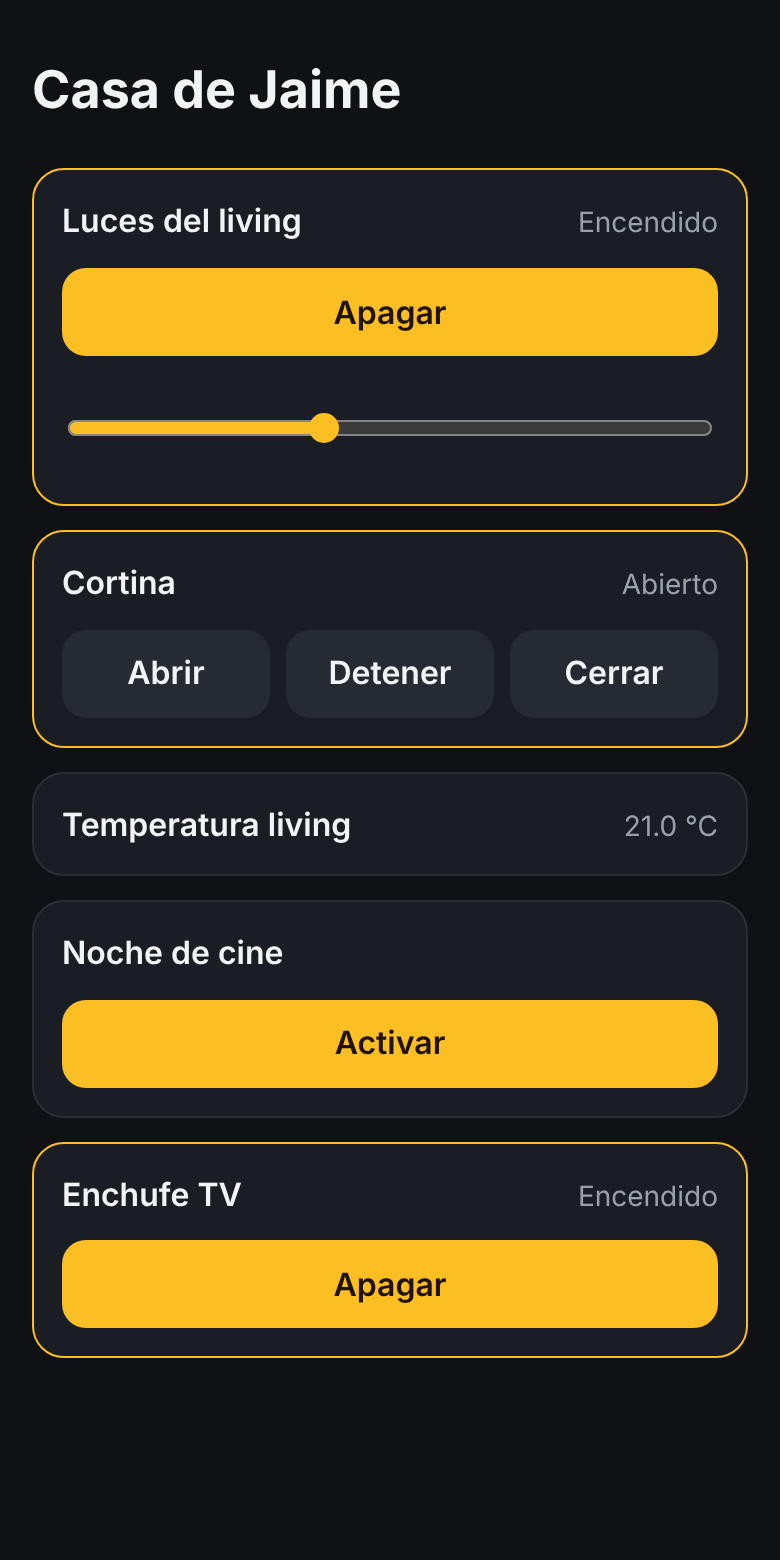
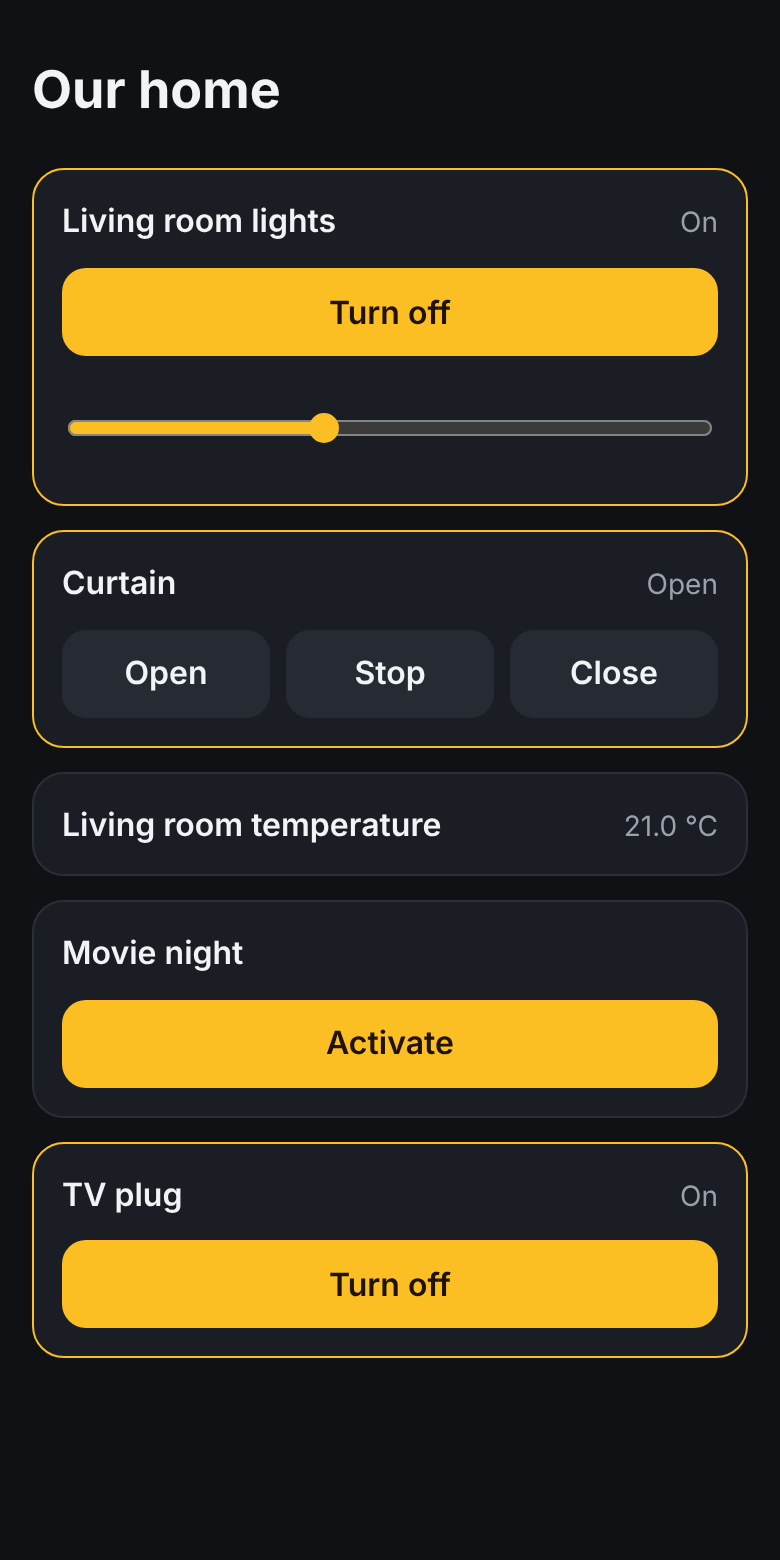
Make English the default language
English README with the Spanish one kept as README.es.md, English default
panel title and fallback language, and an English screenshot.

Claude-Session: https://claude.ai/code/session_01P8vX2JRArySRhBeMx9U1Mu

diff --git a/custom_components/ha_guest/frontend/guest.html b/custom_components/ha_guest/frontend/guest.html
@@ -1,12 +1,12 @@
 <!doctype html>
-<html lang="es">
+<html lang="en">
 <head>
 <meta charset="utf-8">
 <meta name="viewport" content="width=device-width, initial-scale=1, viewport-fit=cover">
 <meta name="robots" content="noindex">
 <meta name="apple-mobile-web-app-capable" content="yes">
 <meta name="mobile-web-app-capable" content="yes">
-<title>Invitados</title>
+<title>Guests</title>
 <style>
   :root {
     --bg: #f3f4f6; --card: #ffffff; --text: #16181d; --muted: #6b7280; --line: #e5e7eb;
@@ -59,7 +59,7 @@
 <div id="toast" role="alert"></div>
 <script>
 (() => {
-  const ES = (navigator.language || "es").toLowerCase().startsWith("es");
+  const ES = (navigator.language || "en").toLowerCase().startsWith("es");
   const T = ES ? {
     on: "Encendido", off: "Apagado", turn_on: "Encender", turn_off: "Apagar", open: "Abrir", close: "Cerrar",
     stop: "Detener", activate: "Activar", lock: "Cerrar", unlock: "Abrir", locked: "Cerrado", unlocked: "Abierto",

diff --git a/custom_components/ha_guest/const.py b/custom_components/ha_guest/const.py
@@ -20,7 +20,7 @@ CONF_CONDITION_ENTITY = "condition_entity"
 CONF_CONDITION_STATES = "condition_states"
 CONF_AWAY_READ = "away_read"
 
-DEFAULT_TITLE = "Invitados"
+DEFAULT_TITLE = "Guests"
 
 PANEL_URL = "/guest"
 API_STATES_URL = "/api/ha_guest/states"

diff --git a/README.md b/README.md
@@ -1,78 +1,80 @@
 # HA Guest
 
-Integración para Home Assistant que deja a tus invitados manejar **solo las entidades que tú elijas** y **solo
-mientras están conectados a tu red**.
+🇪🇸 [Leer en español](README.es.md)
 
-Cubre dos tipos de invitado:
+A Home Assistant integration that lets your guests control **only the entities you choose**, and **only while
+they are connected to your network**.
 
-| | Quién | Cómo entra | Qué puede hacer |
+It covers two kinds of guest:
+
+| | Who | How they get in | What they can do |
 |---|---|---|---|
-| **Panel de invitados** | Un amigo que va a tu casa | Abre `http://<tu-home-assistant>:8123/guest` en el navegador. Sin app y sin usuario | Maneja las entidades del panel, solo desde tu red |
-| **Usuario restringido** | Alguien con la app de Home Assistant (p. ej. tu suegra, para compartir ubicación) | Con su usuario, en la app o el navegador | Siempre: lo que le permitas (p. ej. Family Location). Luces y demás: solo cuando su teléfono está en tu WiFi |
+| **Guest panel** | A friend visiting your home | Opens `http://<your-home-assistant>:8123/guest` in the browser. No app, no user | Controls the panel's entities, only from your network |
+| **Restricted user** | Someone with the Home Assistant app (e.g. a relative who shares their location) | With their own user, in the app or the browser | Always: whatever you allow (e.g. Family Location). Lights and the rest: only while their phone is on your Wi-Fi |
 
-<img src="docs/guest-panel.png" alt="Panel de invitados" width="320">
+<img src="docs/guest-panel.png" alt="Guest panel" width="320">
 
-## Instalación
+## Installation
 
-1. HACS → menú ⋮ → *Repositorios personalizados* → agrega este repositorio como **Integración**.
-2. Instala **HA Guest** y reinicia Home Assistant.
-3. *Ajustes → Dispositivos y servicios → Añadir integración → HA Guest.*
+1. HACS → ⋮ menu → *Custom repositories* → add this repository as an **Integration**.
+2. Install **HA Guest** and restart Home Assistant.
+3. *Settings → Devices & services → Add integration → HA Guest.*
 
-Requiere Home Assistant 2025.3 o superior.
+Requires Home Assistant 2025.3 or later.
 
-## Panel de invitados (sin cuenta)
+## Guest panel (no account)
 
-Al añadir la integración se configura el panel:
+The panel is configured when you add the integration:
 
-- **Redes permitidas:** la red de tu WiFi en formato CIDR, por ejemplo `192.168.1.0/24`. Se propone la red de tu
-  Home Assistant. Si tienes una red de invitados aparte, pon esa (y asegúrate de que el router le permita llegar
-  a Home Assistant).
-- **Entidades:** las que el invitado puede manejar. Luces (con brillo), enchufes, ventiladores, cortinas,
-  cerraduras, escenas, scripts, botones, clima, reproductores y aspiradoras tienen controles; cualquier otra
-  entidad se muestra como solo lectura.
+- **Allowed networks:** your Wi-Fi network in CIDR format, for example `192.168.1.0/24`. Your Home Assistant's
+  own network is suggested. If you have a separate guest network, use that one (and make sure the router lets it
+  reach Home Assistant).
+- **Entities:** the ones a guest can control. Lights (with brightness), switches, fans, covers, locks, scenes,
+  scripts, buttons, climate, media players and vacuums get controls; any other entity is shown read-only.
 
-El invitado entra a `http://<ip-de-home-assistant>:8123/guest`. Lo más cómodo es dejar un código QR con esa
-dirección. Desde otra red, la página solo muestra «Conéctate al WiFi de la casa» junto a la dirección IP que
-Home Assistant ve, lo que sirve para ajustar las redes permitidas.
+Guests open `http://<home-assistant-ip>:8123/guest`. The easiest way is to leave a QR code with that address.
+From any other network the page only shows «Connect to the home Wi-Fi» along with the IP address Home Assistant
+sees, which helps when adjusting the allowed networks.
 
-Home Assistant no puede ver el nombre del WiFi del visitante, solo su dirección IP: por eso el panel se
-restringe por red. El acceso remoto por Home Assistant Cloud (Nabu Casa) siempre se rechaza. Si usas un proxy
-inverso, configura `trusted_proxies` en `http:` para que Home Assistant vea la IP real del visitante.
+Home Assistant cannot see the name of a visitor's Wi-Fi, only their IP address: that is why the panel is
+restricted by network. Remote access through Home Assistant Cloud (Nabu Casa) is always rejected. If you use a
+reverse proxy, configure `trusted_proxies` under `http:` so Home Assistant sees the visitor's real IP.
 
-## Usuarios restringidos (con la app)
+## Restricted users (with the app)
 
-1. Crea a la persona en *Ajustes → Personas* con un usuario **que no sea administrador** e instálale la app.
-2. En la página de la integración: **Configurar → Restringir a un usuario**.
-3. Define sus permisos:
-   - **Entidades permitidas siempre:** las ve y maneja desde cualquier lugar.
-   - **Incluir Family Location:** permite siempre el mapa (personas y zonas) y las entidades de
-     [Family Location](https://github.com/Ctuna89/HA-Family-Location), incluidos los botones de check-in y de
-     pedir ayuda.
-   - **Entidades permitidas solo en casa:** p. ej. las luces del living.
-   - **Entidad que indica que está en casa** y sus **estados**: normalmente el sensor de conexión WiFi de su
-     teléfono (`sensor.<teléfono>_wifi_connection` en Android, `sensor.<teléfono>_ssid` en iPhone) y el nombre de
-     tu WiFi. También puedes usar un `device_tracker` de tu router con el estado `home`, que es más difícil de
-     engañar que el nombre de la red.
-   - **Fuera de casa, mostrarlas como solo lectura:** si está apagado, fuera de casa no le aparecen.
+1. Create the person in *Settings → People* with a user that is **not an administrator**, and install the app
+   for them.
+2. On the integration page: **Configure → Restrict a user**.
+3. Set their permissions:
+   - **Entities always allowed:** they can see and control these from anywhere.
+   - **Include Family Location:** always allows the map (people and zones) and the
+     [Family Location](https://github.com/Ctuna89/HA-Family-Location) entities, including the check-in and
+     ask-for-help buttons.
+   - **Entities allowed only at home:** e.g. the living room lights.
+   - **Entity that shows they are home** and its **states**: usually their phone's Wi-Fi connection sensor
+     (`sensor.<phone>_wifi_connection` on Android, `sensor.<phone>_ssid` on iPhone) and the name of your Wi-Fi.
+     You can also use a `device_tracker` from your router with the state `home`, which is harder to fool than a
+     network name.
+   - **When away, show them read-only:** if off, these entities do not appear to them while away.
 
-Todo lo que no esté en esas listas deja de verlo y de poder manejarlo. Home Assistant aplica la restricción en
-el servidor, así que vale igual para la app, el navegador y la API.
+Anything not on those lists they can no longer see or control. Home Assistant enforces the restriction on the
+server, so it applies equally to the app, the browser and the API.
 
-### A tener en cuenta
+### Good to know
 
-- Al llegar a casa, las entidades «solo en casa» pueden tardar en aparecer en una app que ya estaba abierta:
-  aparecen cuando cambian de estado o al volver a abrir la app.
-- Su panel por defecto es el mismo que el tuyo, con huecos donde no tiene permiso. Conviene crearle un panel
-  propio con lo que sí puede usar y dejarlo como su panel predeterminado.
-- La restricción cubre ver el estado y manejar entidades. Home Assistant no filtra por usuario todo lo demás:
-  un usuario restringido todavía puede ejecutar acciones que no apuntan a una entidad (como las de check-in y
-  ayuda de Family Location, que es lo que se busca) y partes como el historial no siempre respetan los permisos.
-- Los grupos de permisos a medida no tienen API pública en Home Assistant; la integración usa su almacenamiento
-  interno de usuarios, así que una versión futura de Home Assistant podría requerir actualizarla.
-- Si desactivas la integración, los usuarios restringidos quedan con su acceso de «fuera de casa». Al quitar la
-  restricción a un usuario, o al eliminar la integración, recuperan el acceso normal.
+- On arriving home, the «home only» entities can take a while to show up in an app that was already open: they
+  appear when their state changes or when the app is reopened.
+- Their default dashboard is the same as yours, with gaps where they have no permission. It is worth creating a
+  dashboard of their own with what they can use and making it their default.
+- The restriction covers seeing state and controlling entities. Home Assistant does not filter everything else
+  per user: a restricted user can still run actions that do not target an entity (such as Family Location's
+  check-in and help actions, which is the intent), and parts like history do not always honour permissions.
+- Custom permission groups have no public API in Home Assistant; the integration uses its internal user storage,
+  so a future Home Assistant release may require an update.
+- If you disable the integration, restricted users keep their «away» access. When you stop restricting a user,
+  or delete the integration, they get normal access back.
 
-## Desarrollo
+## Development
 
 ```bash
 pip install pytest-homeassistant-custom-component

diff --git a/README.es.md b/README.es.md
@@ -1,0 +1,85 @@
+# HA Guest
+
+🇬🇧 [Read in English](README.md)
+
+Integración para Home Assistant que deja a tus invitados manejar **solo las entidades que tú elijas** y **solo
+mientras están conectados a tu red**.
+
+Cubre dos tipos de invitado:
+
+| | Quién | Cómo entra | Qué puede hacer |
+|---|---|---|---|
+| **Panel de invitados** | Un amigo que va a tu casa | Abre `http://<tu-home-assistant>:8123/guest` en el navegador. Sin app y sin usuario | Maneja las entidades del panel, solo desde tu red |
+| **Usuario restringido** | Alguien con la app de Home Assistant (p. ej. tu suegra, para compartir ubicación) | Con su usuario, en la app o el navegador | Siempre: lo que le permitas (p. ej. Family Location). Luces y demás: solo cuando su teléfono está en tu WiFi |
+
+<img src="docs/guest-panel.png" alt="Panel de invitados" width="320">
+
+## Instalación
+
+1. HACS → menú ⋮ → *Repositorios personalizados* → agrega este repositorio como **Integración**.
+2. Instala **HA Guest** y reinicia Home Assistant.
+3. *Ajustes → Dispositivos y servicios → Añadir integración → HA Guest.*
+
+Requiere Home Assistant 2025.3 o superior.
+
+## Panel de invitados (sin cuenta)
+
+Al añadir la integración se configura el panel:
+
+- **Redes permitidas:** la red de tu WiFi en formato CIDR, por ejemplo `192.168.1.0/24`. Se propone la red de tu
+  Home Assistant. Si tienes una red de invitados aparte, pon esa (y asegúrate de que el router le permita llegar
+  a Home Assistant).
+- **Entidades:** las que el invitado puede manejar. Luces (con brillo), enchufes, ventiladores, cortinas,
+  cerraduras, escenas, scripts, botones, clima, reproductores y aspiradoras tienen controles; cualquier otra
+  entidad se muestra como solo lectura.
+
+El invitado entra a `http://<ip-de-home-assistant>:8123/guest`. Lo más cómodo es dejar un código QR con esa
+dirección. Desde otra red, la página solo muestra «Conéctate al WiFi de la casa» junto a la dirección IP que
+Home Assistant ve, lo que sirve para ajustar las redes permitidas.
+
+Home Assistant no puede ver el nombre del WiFi del visitante, solo su dirección IP: por eso el panel se
+restringe por red. El acceso remoto por Home Assistant Cloud (Nabu Casa) siempre se rechaza. Si usas un proxy
+inverso, configura `trusted_proxies` en `http:` para que Home Assistant vea la IP real del visitante.
+
+## Usuarios restringidos (con la app)
+
+1. Crea a la persona en *Ajustes → Personas* con un usuario **que no sea administrador** e instálale la app.
+2. En la página de la integración: **Configurar → Restringir a un usuario**.
+3. Define sus permisos:
+   - **Entidades permitidas siempre:** las ve y maneja desde cualquier lugar.
+   - **Incluir Family Location:** permite siempre el mapa (personas y zonas) y las entidades de
+     [Family Location](https://github.com/Ctuna89/HA-Family-Location), incluidos los botones de check-in y de
+     pedir ayuda.
+   - **Entidades permitidas solo en casa:** p. ej. las luces del living.
+   - **Entidad que indica que está en casa** y sus **estados**: normalmente el sensor de conexión WiFi de su
+     teléfono (`sensor.<teléfono>_wifi_connection` en Android, `sensor.<teléfono>_ssid` en iPhone) y el nombre de
+     tu WiFi. También puedes usar un `device_tracker` de tu router con el estado `home`, que es más difícil de
+     engañar que el nombre de la red.
+   - **Fuera de casa, mostrarlas como solo lectura:** si está apagado, fuera de casa no le aparecen.
+
+Todo lo que no esté en esas listas deja de verlo y de poder manejarlo. Home Assistant aplica la restricción en
+el servidor, así que vale igual para la app, el navegador y la API.
+
+### A tener en cuenta
+
+- Al llegar a casa, las entidades «solo en casa» pueden tardar en aparecer en una app que ya estaba abierta:
+  aparecen cuando cambian de estado o al volver a abrir la app.
+- Su panel por defecto es el mismo que el tuyo, con huecos donde no tiene permiso. Conviene crearle un panel
+  propio con lo que sí puede usar y dejarlo como su panel predeterminado.
+- La restricción cubre ver el estado y manejar entidades. Home Assistant no filtra por usuario todo lo demás:
+  un usuario restringido todavía puede ejecutar acciones que no apuntan a una entidad (como las de check-in y
+  ayuda de Family Location, que es lo que se busca) y partes como el historial no siempre respetan los permisos.
+- Los grupos de permisos a medida no tienen API pública en Home Assistant; la integración usa su almacenamiento
+  interno de usuarios, así que una versión futura de Home Assistant podría requerir actualizarla.
+- Si desactivas la integración, los usuarios restringidos quedan con su acceso de «fuera de casa». Al quitar la
+  restricción a un usuario, o al eliminar la integración, recuperan el acceso normal.
+
+## Desarrollo
+
+```bash
+pip install pytest-homeassistant-custom-component
+```
+
+```bash
+pytest tests
+```
